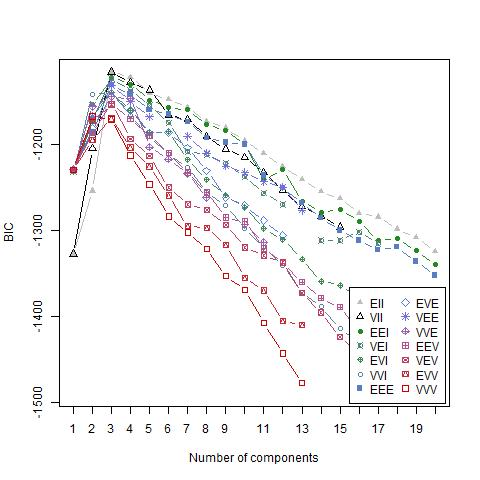
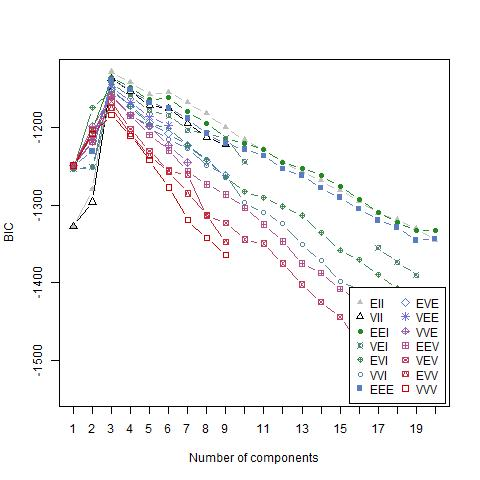
bic calculation test

diff --git a/brute_cluster.py b/brute_cluster.py
@@ -288,7 +288,7 @@ def brute_cluster(x, affinities, linkages,
                         label=titles[row])
             
         idxs = (bics!=-np.inf)*(aris!=-np.inf)
-        slope,_,r_value,_,p_value = stats.linregress(bics[idxs],aris[idxs])
+        _,_,r_value,_,_ = stats.linregress(bics[idxs],aris[idxs])
         ax_bicari.set_xlabel("BIC")
         ax_bicari.set_ylabel("ARI")
         ax_bicari.legend(loc='lower right')
@@ -301,7 +301,7 @@ def brute_cluster(x, affinities, linkages,
              5:'l1/complete',6:'l1/average',7:'l1/single',8:'cos/complete',
              9:'cos/average',10:'cos/single'}
     
-    f, ((ax0,ax1),(ax2,ax3)) = plt.subplots(2,2,sharey='row',sharex='col',figsize=(10,10))
+    _, ((ax0,ax1),(ax2,ax3)) = plt.subplots(2,2,sharey='row',sharex='col',figsize=(10,10))
     for row in np.arange(bics.shape[0]):
         if all(bics[row,:]==-np.inf):
             continue

diff --git a/tests/test_bic.py b/tests/test_bic.py
@@ -1,0 +1,19 @@
+import pytest
+import numpy as np
+import sys
+sys.path.append("C:\\Users\\Thomas Athey\\Documents\\Labs\\Labs\\jovo\\clustering\\pyclust")
+from compare_bic.bic import processBIC
+from sklearn.mixture import GaussianMixture
+from numpy.testing import assert_almost_equal, assert_equal
+
+
+
+def test_biccalc():
+    covs = ['full','tied','diag','spherical']
+    X = np.random.multivariate_normal(mean=[0,0,0],cov=np.identity(3),size=100)
+    for cov in covs:
+        gmm = GaussianMixture(n_components=2, covariance_type=cov)
+        gmm.fit(X)
+        bic1 = processBIC(X,gmm.weights_,gmm.means_,gmm.covariances_,cov)
+        bic2 = gmm.bic(X)
+        assert_almost_equal(-bic1,bic2)

diff --git a/make_gmix.py b/make_gmix.py
@@ -1,8 +1,8 @@
 import numpy as np
 
 n = 100
-d = 10
-w = [0.33,0.33,0.34]
+d = 3
+w = [0.33,0.33,0.33]
 
 k = len(w)
 z = np.zeros([d])
@@ -14,7 +14,7 @@ x = np.zeros([n,d+1])
 
 thresholds = np.cumsum(w)
 for i in np.arange(n):
-    u = np.random.rand(1)
+    u = np.random.uniform(high=np.sum(w),size=1)
     component = np.argmax((u < thresholds))
     x[i,0] = component
     x[i,1:] = np.random.multivariate_normal(means[component],cov[component])

diff --git a/brute_cluster_experiments.py b/brute_cluster_experiments.py
@@ -4,9 +4,9 @@ import csv
 
 
 
-dataset = 0 #0-drosophila, 1-BC, 2-diabetes, 3-gaussianmix
+dataset = 3 #0-drosophila, 1-BC, 2-diabetes, 3-gaussianmix
 #None - no figures will be saved, string - files will be saved with that name
-savefigs = "drosophila" 
+savefigs = "lowd" 
 
 if dataset == 0:
     #Drosophila
